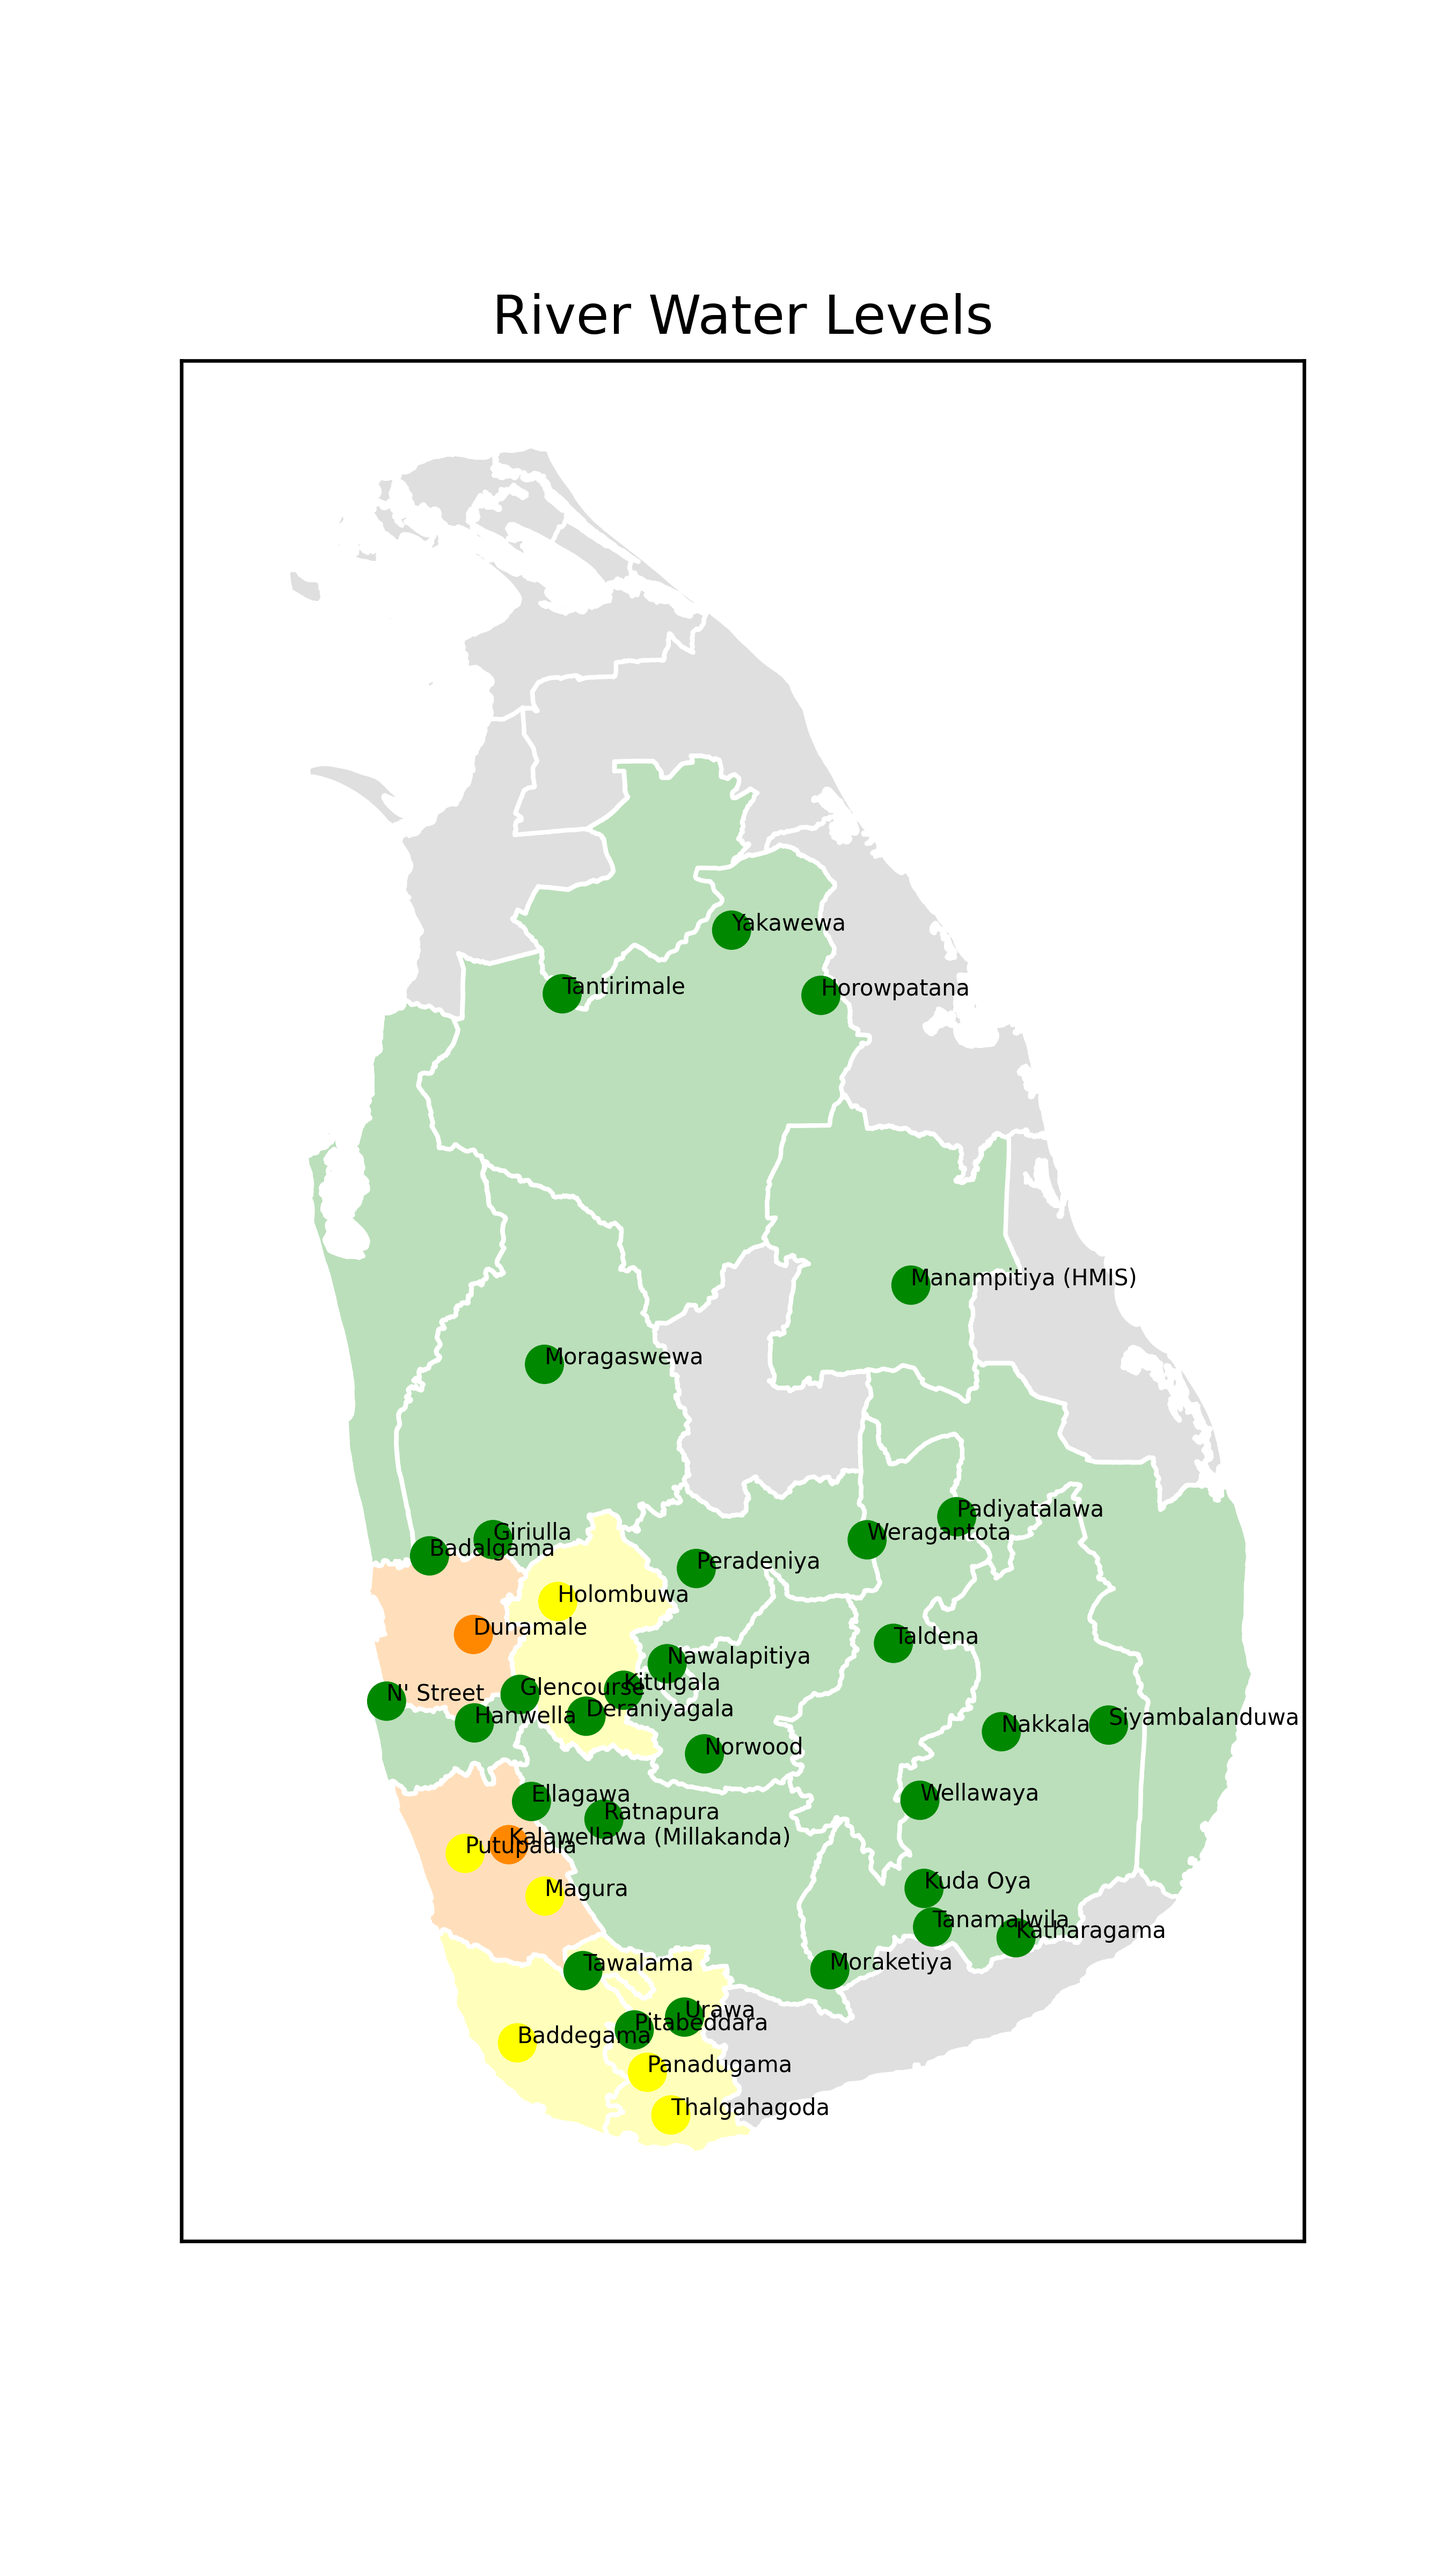
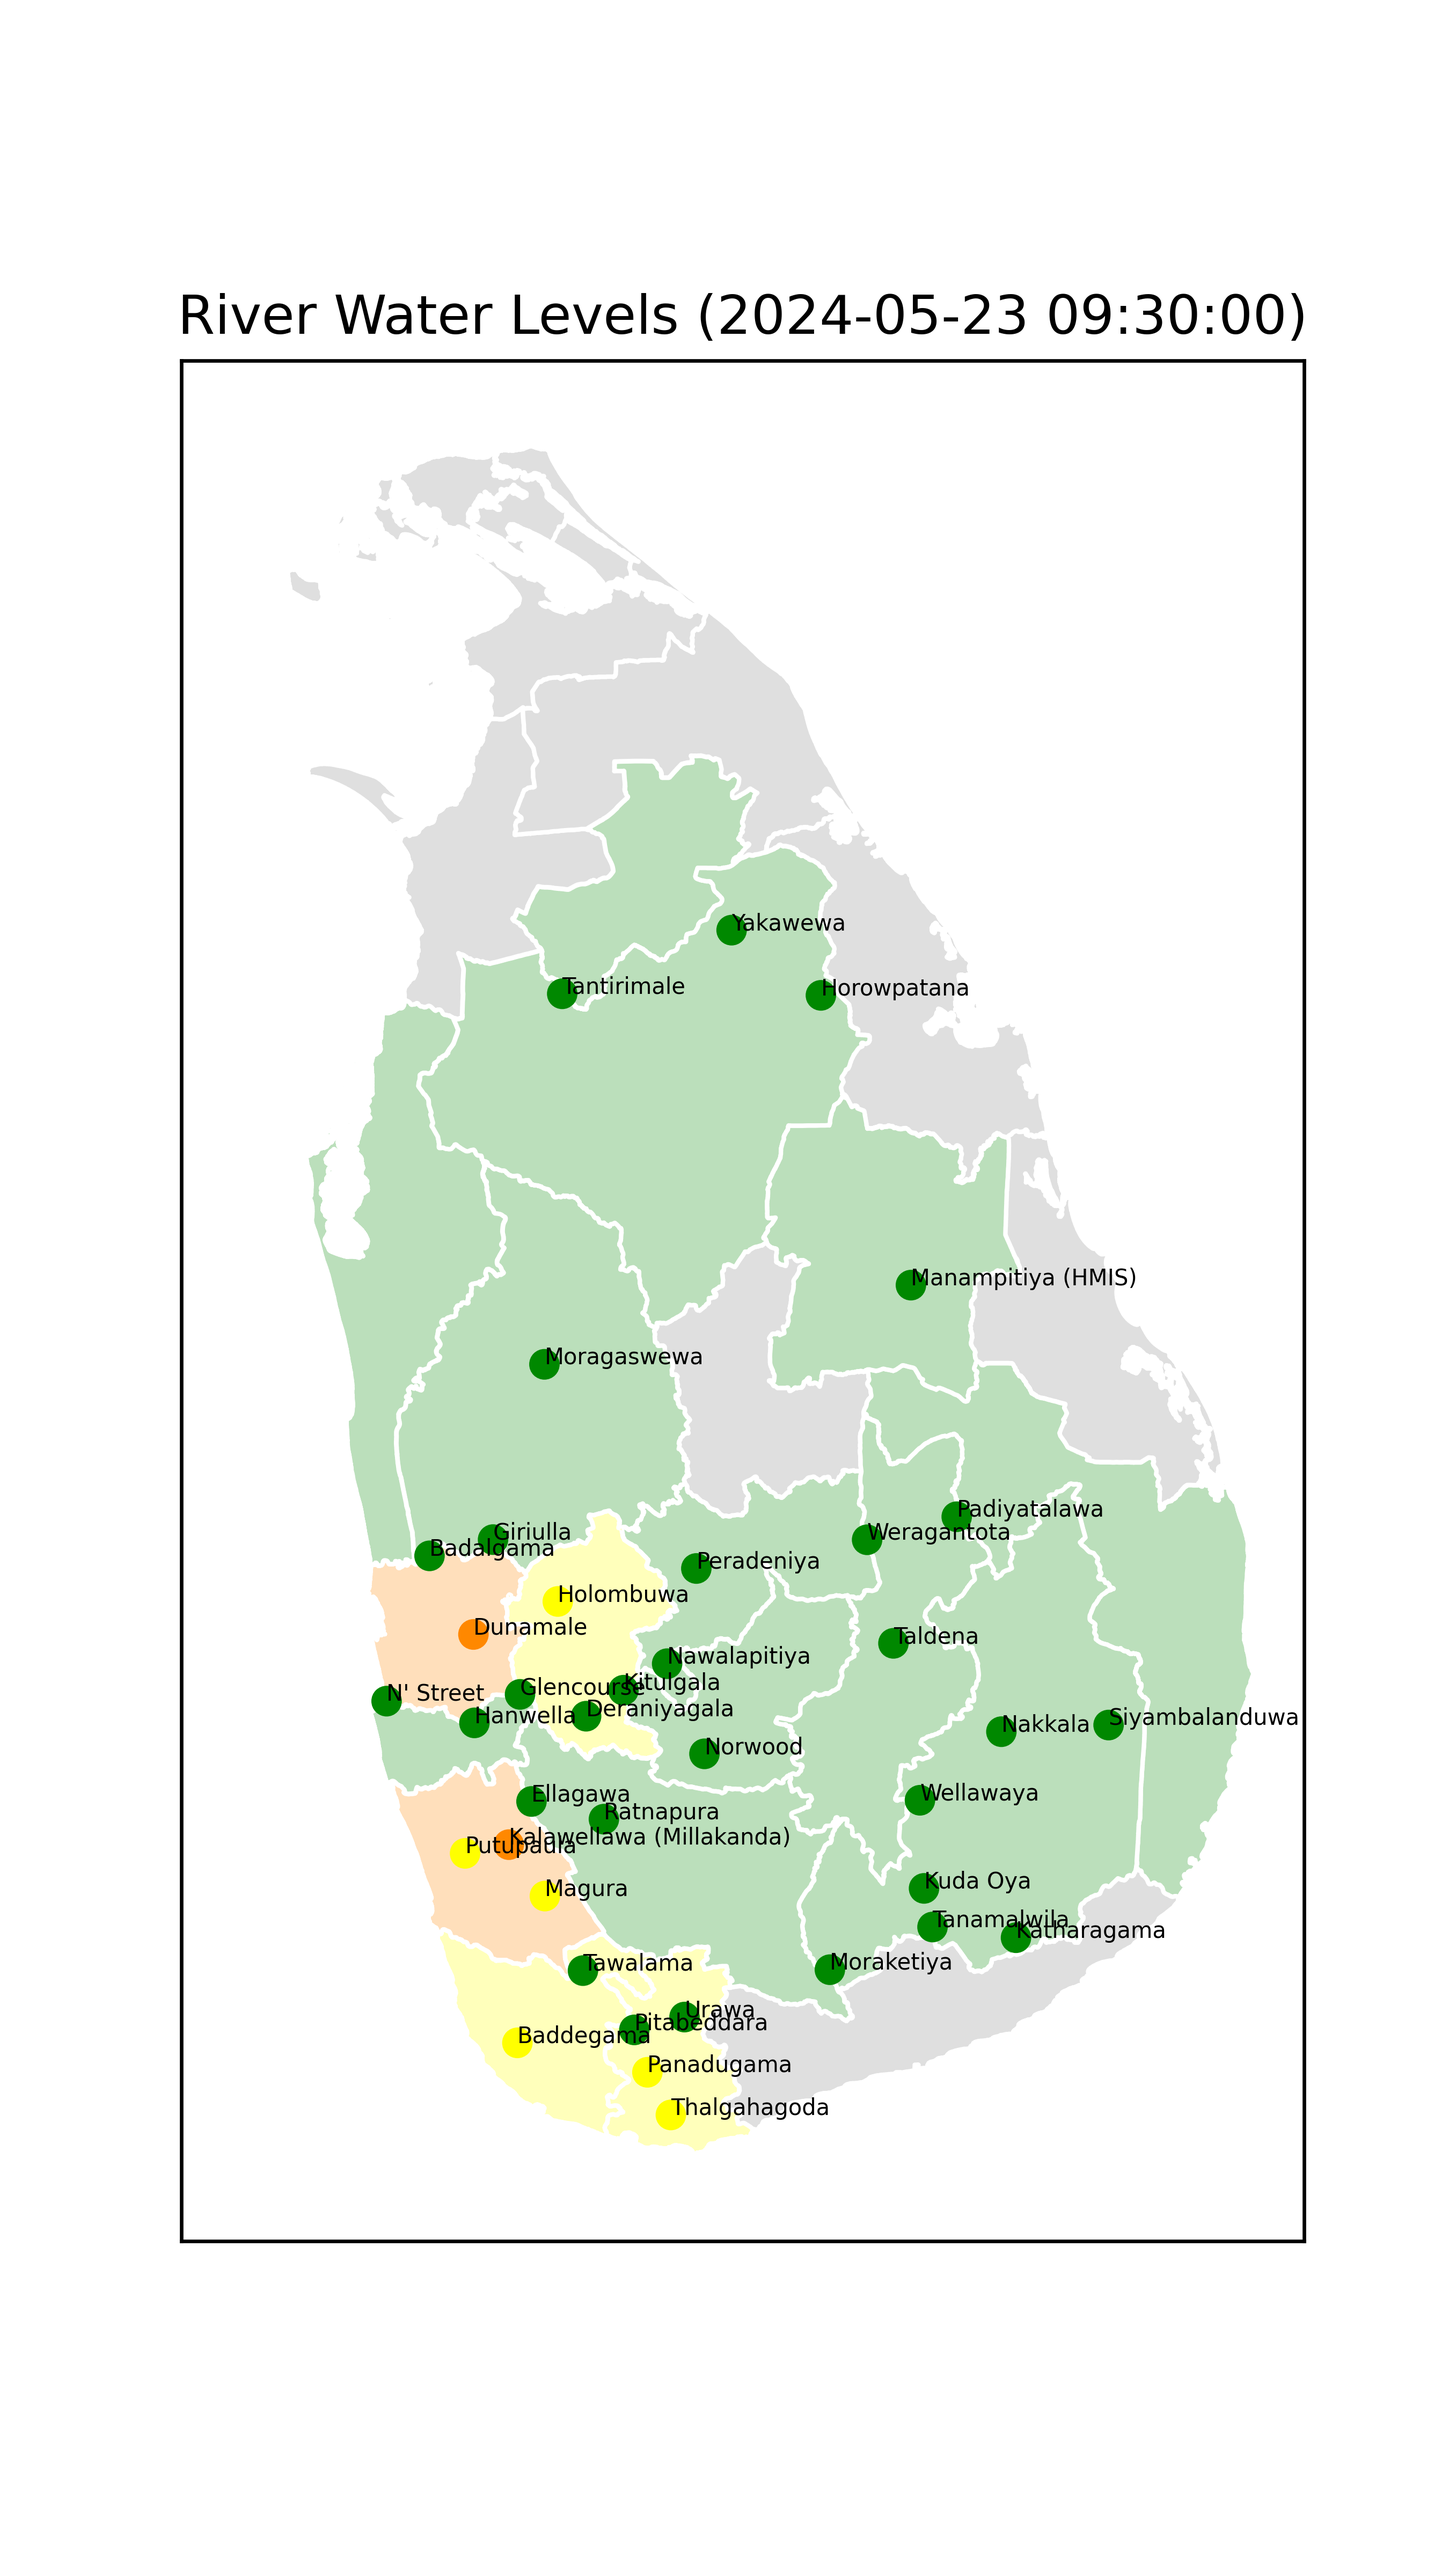
various

diff --git a/src/dmc/reports/RiverWaterLevelMap.py b/src/dmc/reports/RiverWaterLevelMap.py
@@ -2,7 +2,7 @@ import os
 
 import matplotlib.pyplot as plt
 from gig import Ent, EntType
-from utils import Log
+from utils import Log, Time, TimeFormat
 
 from dmc.core import RiverWaterLevel, Station
 
@@ -56,7 +56,7 @@ class RiverWaterLevelMap:
                 continue
             color = ['#080', '#ff0', '#f80', '#f00'][rwl.level]
             circle = plt.Circle(
-                (station.latLng.lng, station.latLng.lat), 0.04, color=color
+                (station.latLng.lng, station.latLng.lat), 0.03, color=color
             )
             ax.add_patch(circle)
             plt.text(
@@ -68,7 +68,11 @@ class RiverWaterLevelMap:
         ax.set_xticks([])
         ax.set_yticks([])
 
-        plt.title(f'River Water Levels')
+        ut = rwl_list[0].ut
+        time_str = TimeFormat.TIME.format(Time(ut))
+        log.debug(f'{time_str=}')
+
+        plt.title(f'River Water Levels ({time_str})')
         plt.savefig(self.image_path, dpi=600)
         plt.close()
         log.info(f'Wrote {self.image_path}')
